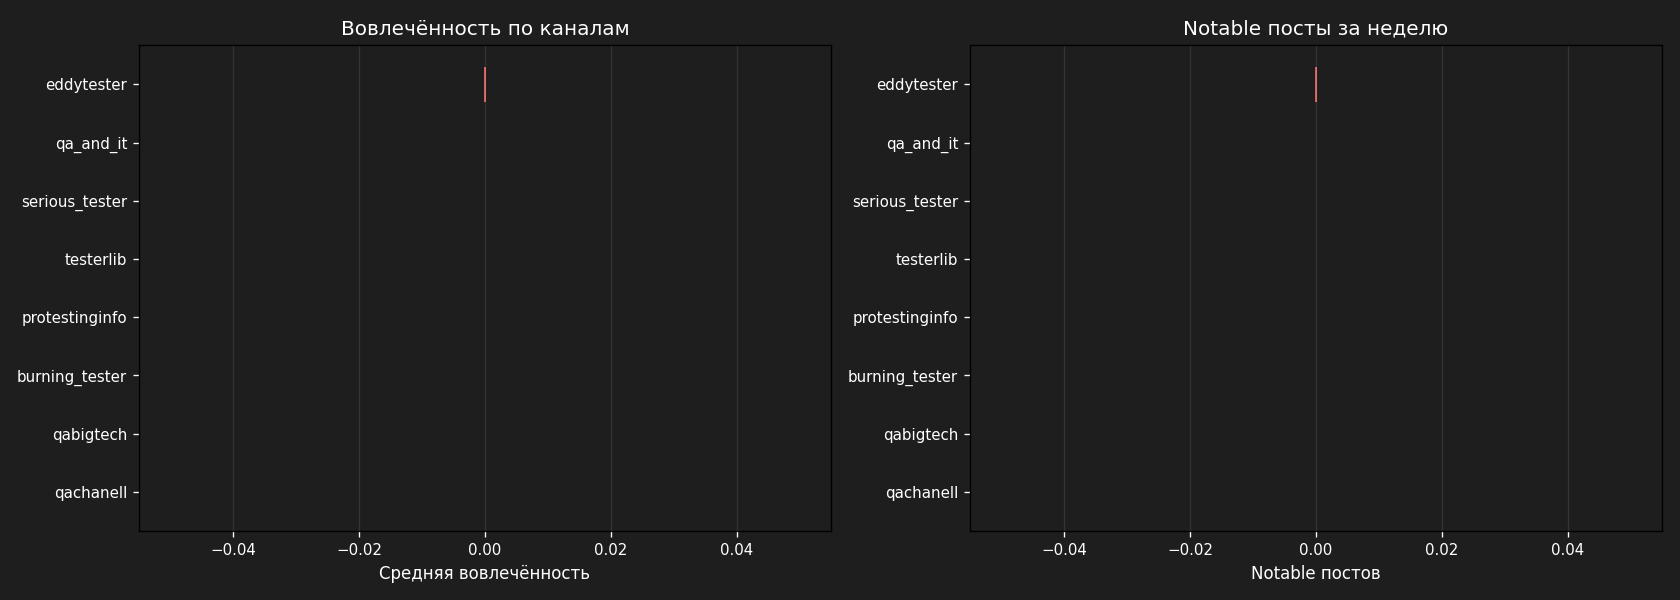
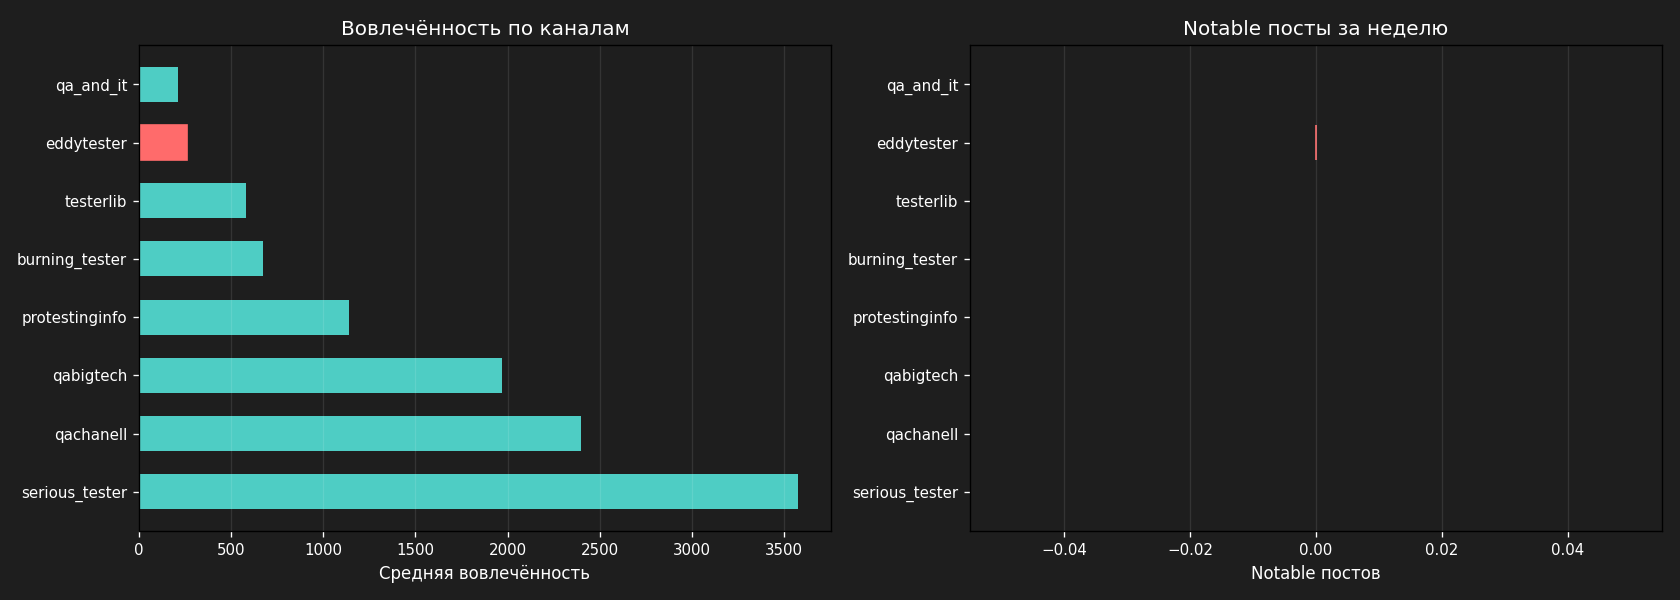
auto-save before pull

diff --git a/eddytester/Стратегия/Анализ/Weekly/2026-W20.md b/eddytester/Стратегия/Анализ/Weekly/2026-W20.md
@@ -24,14 +24,14 @@ _2026-05-18 — 2026-05-24_
 
 | Канал | Посты | Просмотры (средн) | Вовлечение (средн) | Notable |
 |-------|-------|-------------------|-------------------|---------|
-| @qachanell | 5 | 0 | 0 | 0 |
-| @qabigtech | 2 | 0 | 0 | 0 |
-| @burning_tester | 3 | 0 | 0 | 0 |
-| @protestinginfo | 14 | 0 | 0 | 0 |
-| @testerlib | 27 | 0 | 0 | 0 |
-| @serious_tester | 2 | 0 | 0 | 0 |
-| @qa_and_it | 1 | 0 | 0 | 0 |
-| @eddytester ⬅️ | 2 | 0 | 0 | 0 |
+| @testerlib | 27 | 519 | 579 | 0 |
+| @protestinginfo | 14 | 989 | 1.1K | 0 |
+| @qachanell | 5 | 2.3K | 2.4K | 0 |
+| @serious_tester | 2 | 3.4K | 3.6K | 0 |
+| @qabigtech | 2 | 1.7K | 2.0K | 0 |
+| @burning_tester | 3 | 583 | 672 | 0 |
+| @eddytester ⬅️ | 2 | 240 | 263 | 0 |
+| @qa_and_it | 1 | 203 | 213 | 0 |
 
 ---
 
@@ -39,14 +39,14 @@ _2026-05-18 — 2026-05-24_
 
 | Категория | Постов | Avg просмотры | Avg вовлечение | Notable | Достоверность |
 |-----------|--------|--------------|----------------|---------|--------------|
-| other | 2 | 0 | 0 | 0 | Мало данных |
+| other | 2 | 240 | 263 | 0 | Мало данных |
 
 **Лучший формат:** other — Мало данных
 🔬 Мало данных. Отслеживать.
 
-**Лучший день:** ВС
+**Лучший день:** ПН
 **Лучшее время:** 10:00
-  _Распределение: ВС: 1п, 0просм, ПН: 1п, 0просм_
+  _Распределение: ВС: 1п, 254просм, ПН: 1п, 227просм_
 
 ---
 
@@ -54,10 +54,10 @@ _2026-05-18 — 2026-05-24_
 
 | Конкурент | Наши avg просмотры | Их avg просмотры | Разрыв |
 |-----------|-------------------|-----------------|--------|
-| @qachanell | 0 | 0 | 0% |
-| @qabigtech | 0 | 0 | 0% |
-| @burning_tester | 0 | 0 | 0% |
-| @protestinginfo | 0 | 0 | 0% |
+| @qachanell | 240 | 2.3K | +860% |
+| @qabigtech | 240 | 1.7K | +605% |
+| @protestinginfo | 240 | 989 | +311% |
+| @burning_tester | 240 | 583 | +142% |
 
 ---
 
@@ -65,12 +65,21 @@ _2026-05-18 — 2026-05-24_
 
 Всего постов: 2
 - 🤝 Комьюнити (реплаи > репосты): 0 (0%)
-- 🔄 Виральный (репосты > реплаи): 0 (0%)
+- 🔄 Виральный (репосты > реплаи): 2 (100%)
 - 👁 Читают, не реагируют: 0 (0%)
 
+**Тип аудитории:** Виральный. Посты расходятся, но не обсуждаются.
+→ Добавь CTA и вопросы, чтобы конвертировать охват в диалог.
 
 ---
 
+## ⭐ Notable посты недели
+
+- **@serious_tester** tg#2356: Пост залетает из-за высокой релевантности и эмоционального отклика — он вызывает смех и желание поделиться опытом в комм
+- **@serious_tester** tg#2307: Залетел, потому что затрагивает общий опыт тестировщиков, вызывая эмоциональный отклик и желание поделиться с коллегами.
+- **@serious_tester** tg#2216: Пост резонирует с аудиторией, вызывая чувство общности и узнавания.
+- **@serious_tester** tg#2509: Юмор прост и релевантен целевой аудитории, что обеспечивает высокий уровень вовлечения за счёт эффекта 'узнавания' и общ
+- **@serious_tester** tg#2303: Пост залетает, потому что он очень релевантен для целевой аудитории — тестировщиков, которые часто работают в одиночку, 
 
 ---
 
@@ -81,6 +90,10 @@ _2026-05-18 — 2026-05-24_
 - Кейс: как баг из Practicum помог на реальной работе
 - Разбор: что внутри API-симулятора (подогрев)
 - CTA: ссылка на бот в каждом втором посте
+
+### 3. Смотреть на @qachanell
+Отставание по просмотрам 860%. 
+Проанализируй 5 их последних постов — что в заголовках, какой CTA?
 
 ---
 
@@ -93,4 +106,4 @@ _2026-05-18 — 2026-05-24_
 ![](eddytester/Стратегия/Анализ/Weekly/charts/categories_2026-05-21.png)
 
 
-_Сгенерировано 2026-05-21 11:51_
+_Сгенерировано 2026-05-21 12:04_

diff --git a/eddytester/Стратегия/Анализ/Notable/eddytester_tg358.md b/eddytester/Стратегия/Анализ/Notable/eddytester_tg358.md
@@ -1,0 +1,30 @@
+---
+channel: @eddytester
+tg_post_id: 358
+posted_at: 2025-09-01T07:34:58
+views: 1121
+forwards: 12
+replies: 6
+category: api/bugs
+---
+
+## Post
+
+Apple нам лгали все это время 😱
+
+Выбор времени в iOS это не «бесконечный» круг цифр, а просто... СПИСОК! 
+
+ОЧЕНЬ ДЛИННЫЙ СПИСОК! 
+
+Не баг, конечно, но интересно, сказали ли об этом Джони Айву😂
+
+Взял у Розеткед
+https://t.me/rozetked/23852
+
+## Analysis
+
+Пост раскрывает неочевидную деталь реализации UI в iOS, что может быть интересно тестировщикам, привыкшим анализировать поведение интерфейсов. Ироничный тон и ссылка на авторитетный источник (Rozetked) добавляют доверия и вовлекают аудиторию.
+
+## Why Works
+
+Пост привлекает внимание неожиданным наблюдением, вызывает эмоциональную реакцию (удивление, иронию) и побуждает к обсуждению, что повышает вовлеченность.

diff --git a/eddytester/Стратегия/Анализ/Ежедневный/2026-05-21.md b/eddytester/Стратегия/Анализ/Ежедневный/2026-05-21.md
@@ -299,3 +299,11 @@ _Заполняется после анализа данных_
 
 # 📊 Ежедневный анализ контента — 2026-05-21
 
+
+
+---
+
+## 🔄 Обновление
+
+# 📊 Ежедневный анализ контента — 2026-05-21
+